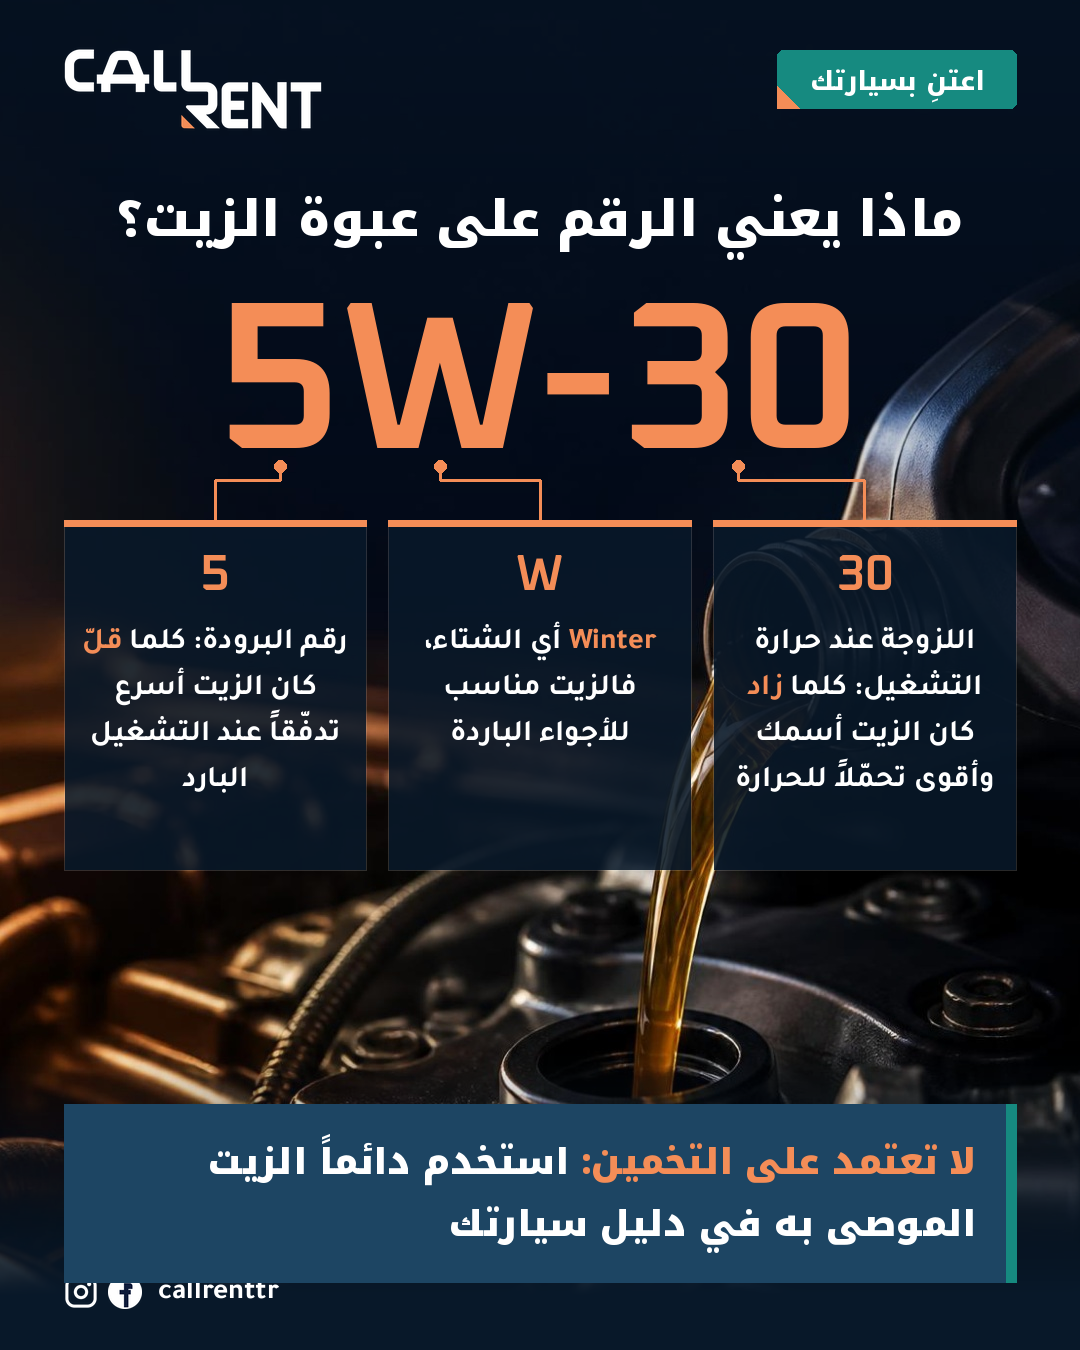
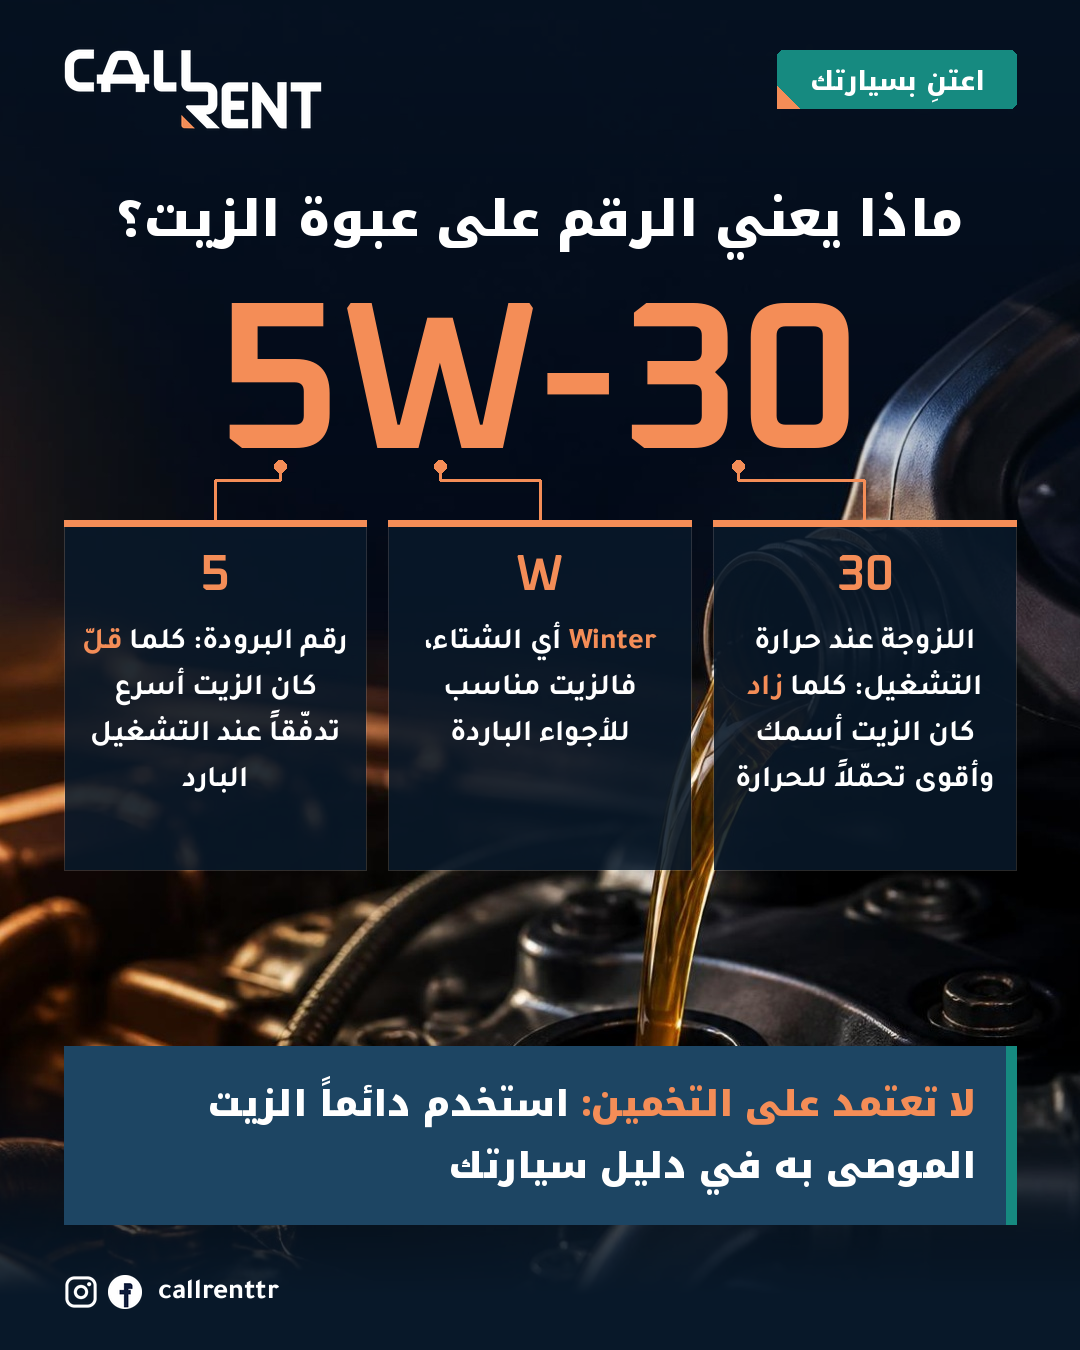
Oil care post: lift tip bar clear of the social footer
Claude-Session: https://claude.ai/code/session_01JWxxZZBXcuDznNNTjM86b7

Changed region(s): [[0.0611, 0.7778, 0.9472, 0.9644]]

diff --git a/marketing/care/care_posts.py b/marketing/care/care_posts.py
@@ -77,7 +77,7 @@ def oil(out):
         d.rectangle((cx0, top, cx0+cw, top+6), fill=O+(255,))
         d.text((ccx, top+70), key, font=F(LT_TEXT, 50), fill=O+(255,), anchor='ms')
         centered_lines(d, body, F(CT_FONT, 30), ccx, top+128, cw-30, 46)
-    tip_bar(cv, d, 1104, [('لا تعتمد على التخمين:', O), ('استخدم دائماً الزيت الموصى به في دليل سيارتك', Wh)], TEAL)
+    tip_bar(cv, d, 1046, [('لا تعتمد على التخمين:', O), ('استخدم دائماً الزيت الموصى به في دليل سيارتك', Wh)], TEAL)
     cv.convert('RGB').save(out, quality=95); print(out)
 
 
